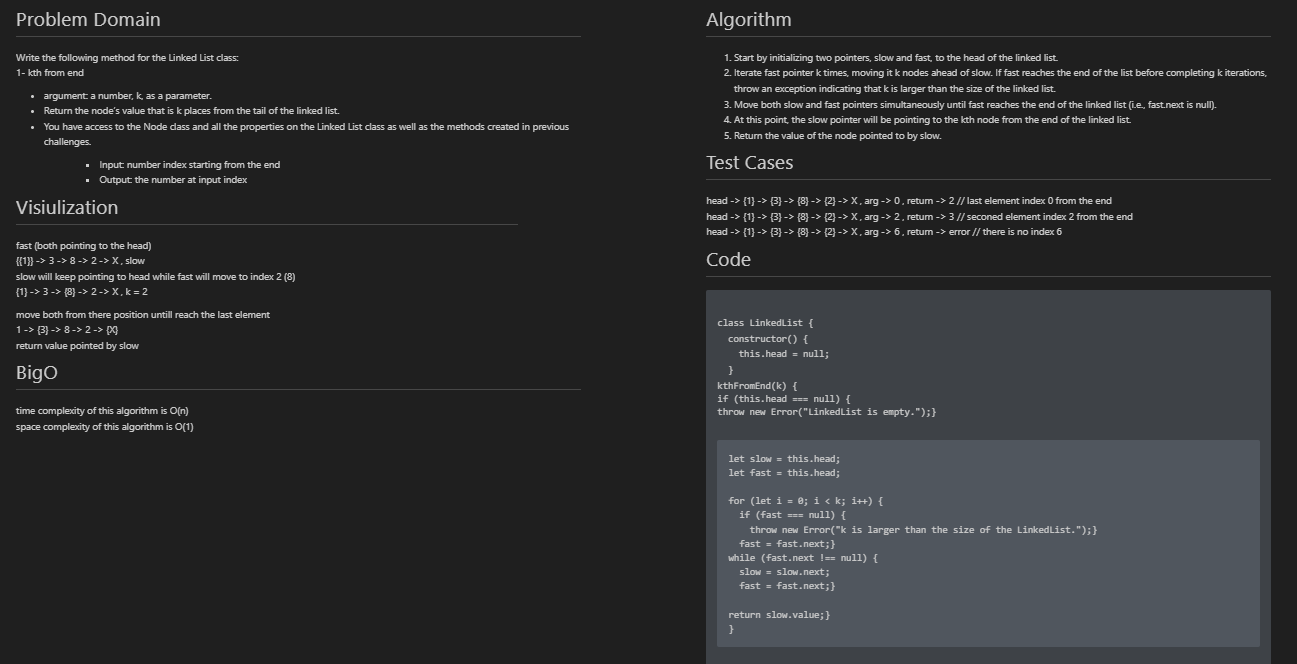
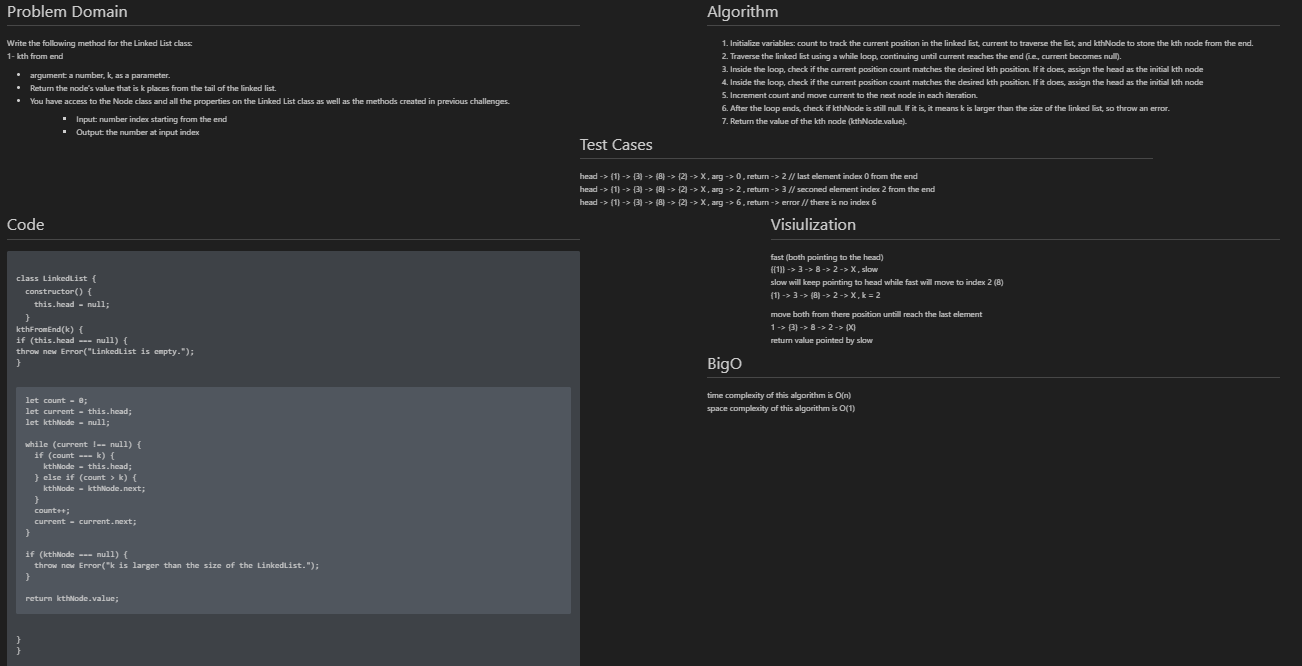
edit

diff --git a/JS-codeCallange/linked-list-kth/index.test.js b/JS-codeCallange/linked-list-kth/index.test.js
@@ -1,0 +1,30 @@
+const LinkedList = require('./index');
+
+describe('LinkedList', () => {
+  describe('kthFromEnd', () => {
+    test('should return the kth element from the end of the LinkedList', () => {
+      const linkedList = new LinkedList();
+      linkedList.head = { value: 1, next: null };
+      linkedList.head.next = { value: 2, next: null };
+      linkedList.head.next.next = { value: 3, next: null };
+      linkedList.head.next.next.next = { value: 4, next: null };
+      linkedList.head.next.next.next.next = { value: 5, next: null };
+
+      expect(linkedList.kthFromEnd(2)).toBe(3);
+      expect(linkedList.kthFromEnd(0)).toBe(5);
+    });
+
+    test('should throw an error if the LinkedList is empty', () => {
+      const linkedList = new LinkedList();
+
+      expect(() => linkedList.kthFromEnd(2)).toThrow('LinkedList is empty.');
+    });
+
+    test('should throw an error if k is larger than the size of the LinkedList', () => {
+      const linkedList = new LinkedList();
+      linkedList.head = { value: 1, next: null };
+
+      expect(() => linkedList.kthFromEnd(2)).toThrow('k is larger than the size of the LinkedList.');
+    });
+  });
+});

diff --git a/JS-codeCallange/linked-list-kth/index.js b/JS-codeCallange/linked-list-kth/index.js
@@ -1,0 +1,34 @@
+class LinkedList {
+  constructor() {
+    this.head = null;
+  }
+
+  kthFromEnd(k) {
+    if (this.head === null) {
+      throw new Error("LinkedList is empty.");
+    }
+
+    let count = 0;
+    let current = this.head;
+    let kthNode = null;
+
+    
+    while (current !== null) {
+      if (count === k) {
+        kthNode = this.head;
+      } else if (count > k) {
+        kthNode = kthNode.next;
+      }
+      count++;
+      current = current.next;
+    }
+
+    if (kthNode === null) {
+      throw new Error("k is larger than the size of the LinkedList.");
+    }
+
+    return kthNode.value;
+  }
+}
+
+module.exports = LinkedList;

diff --git a/JS-codeCallange/linked-list-kth/index.md b/JS-codeCallange/linked-list-kth/index.md
@@ -18,14 +18,16 @@
 <h1> Algorithm </h1>
 
 <ol>
-<li>Start by initializing two pointers, slow and fast, to the head of the linked list.</li>
-<li>Iterate fast pointer k times, moving it k nodes ahead of slow. If fast reaches the end of the list before completing k iterations, throw an exception indicating that k is larger than the size of the linked list.</li>
-<li>Move both slow and fast pointers simultaneously until fast reaches the end of the linked list (i.e., fast.next is null).</li>
-<li>At this point, the slow pointer will be pointing to the kth node from the end of the linked list.</li>
-<li>Return the value of the node pointed to by slow.</li>
+<li>Initialize variables: count to track the current position in the linked list, current to traverse the list, and kthNode to store the kth node from the end.</li>
+<li>Traverse the linked list using a while loop, continuing until current reaches the end (i.e., current becomes null).</li>
+<li>Inside the loop, check if the current position count matches the desired kth position. If it does, assign the head as the initial kth node</li>
+<li>Inside the loop, check if the current position count matches the desired kth position. If it does, assign the head as the initial kth node </li>
+<li>Increment count and move current to the next node in each iteration.</li>
+<li>After the loop ends, check if kthNode is still null. If it is, it means k is larger than the size of the linked list, so throw an error.</li>
+<li>Return the value of the kth node (kthNode.value).</li>
 </ol>
 </div>
-<div style="float: right; width: 45%;">
+<div style="float: left; width: 45%;">
 <h1> Test Cases </h1>
 
 head -> {1} -> {3} -> {8} -> {2} -> X , arg -> 0 , return -> 2 // last element index 0 from the end <br/>
@@ -34,7 +36,7 @@ head -> {1} -> {3} -> {8} -> {2} -> X , arg -> 6 , return -> error // there is n
 
 </div>
 
-<div style="float: left; width: 40%;">
+<div style="float: right; width: 40%;">
 <h1> Visiulization </h1> 
 fast (both pointing to the head)<br/>
 {{1}} -> 3 -> 8 -> 2 -> X , slow <br/>
@@ -47,7 +49,7 @@ move both from there position untill reach the last element<br/>
 return value pointed by slow 
 
 </div>
-<div style="float: right; width: 45%;">
+<div style="float: left; width: 45%;">
 <h1> Code </h1>
  <pre><code>
 class LinkedList {
@@ -55,37 +57,46 @@ class LinkedList {
     this.head = null;
   }
 
-
   kthFromEnd(k) {
     if (this.head === null) {
-      throw new Error("LinkedList is empty.");}
-
-    let slow = this.head;
-    let fast = this.head;
-
-    for (let i = 0; i < k; i++) {
-      if (fast === null) {
-        throw new Error("k is larger than the size of the LinkedList.");}
-      fast = fast.next;}
-    while (fast.next !== null) {
-      slow = slow.next;
-      fast = fast.next;}
-
-    return slow.value;}
+      throw new Error("LinkedList is empty.");
     }
+
+    let count = 0;
+    let current = this.head;
+    let kthNode = null;
+
+    while (current !== null) {
+      if (count === k) {
+        kthNode = this.head;
+      } else if (count > k) {
+        kthNode = kthNode.next;
+      }
+      count++;
+      current = current.next;
+    }
+
+    if (kthNode === null) {
+      throw new Error("k is larger than the size of the LinkedList.");
+    }
+
+    return kthNode.value;
+  }
+}
+
  </pre></code>
 </div>
 
 
 
-<div style="float: left; width: 45%;">
+<div style="float: right; width: 45%;">
 <h1> BigO </h1>
  time complexity of this algorithm is O(n) </br>
  space complexity of this algorithm is O(1)
 </div>
 _______________________
 
-## Whiteboard screenshoot
+ ## Whiteboard screenshoot
 <img src='../Assests/Screenshot%202023-06-26%20171807.png'/>
 ________________
 
